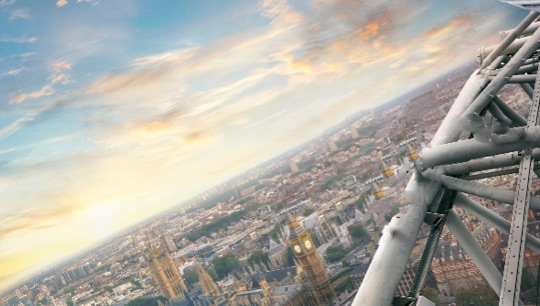
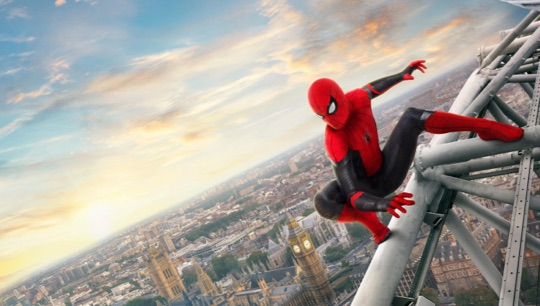
update movies demo

diff --git a/src/components/MovieBox.js b/src/components/MovieBox.js
@@ -1,23 +1,13 @@
 // eslint-disable-next-line
 import { Atropos } from 'atropos/react';
 
-export const MovieBox = ({ bg, bg2, logo1, logo2, logo3 }) => {
+export const MovieBox = ({ bg, logo1, logo2, logo3 }) => {
   return (
     <div className="w-64 m-6">
       <Atropos className="movie-box">
-        {/* <img
-          className="movie-box-size"
-          src="/images/movies/box-size.svg"
-          alt="box bg"
-        /> */}
         <div className="movie-box-bg" data-atropos-offset="-5">
           <img src={`/images/movies/${bg}`} alt="movie bg" />
         </div>
-        {bg2 && (
-          <div className="movie-box-bg-2" data-atropos-offset="-1.5">
-            <img src={`/images/movies/${bg2}`} alt="movie bg" />
-          </div>
-        )}
 
         <img
           className="movie-box-logo"

diff --git a/src/styles/home-demos.scss b/src/styles/home-demos.scss
@@ -65,16 +65,6 @@
 .movie-box .atropos-inner {
   border-radius: 12px;
 }
-.movie-box-bg-2 {
-  position: absolute;
-  left: 0;
-  top: 0;
-  width: 100%;
-  height: 100%;
-  img {
-    transform: scale(1.1);
-  }
-}
 .movie-box .movie-box-bg img {
   transform: scale(1.1);
   position: relative;

diff --git a/src/pages/index.js b/src/pages/index.js
@@ -123,7 +123,6 @@ export default function Home() {
           />
           <MovieBox
             bg="spider-bg.jpg"
-            bg2="spider-bg-2.png"
             logo1="spider-logo-1.png"
             logo2="spider-logo-2.png"
             logo3="spider-logo-3.png"
